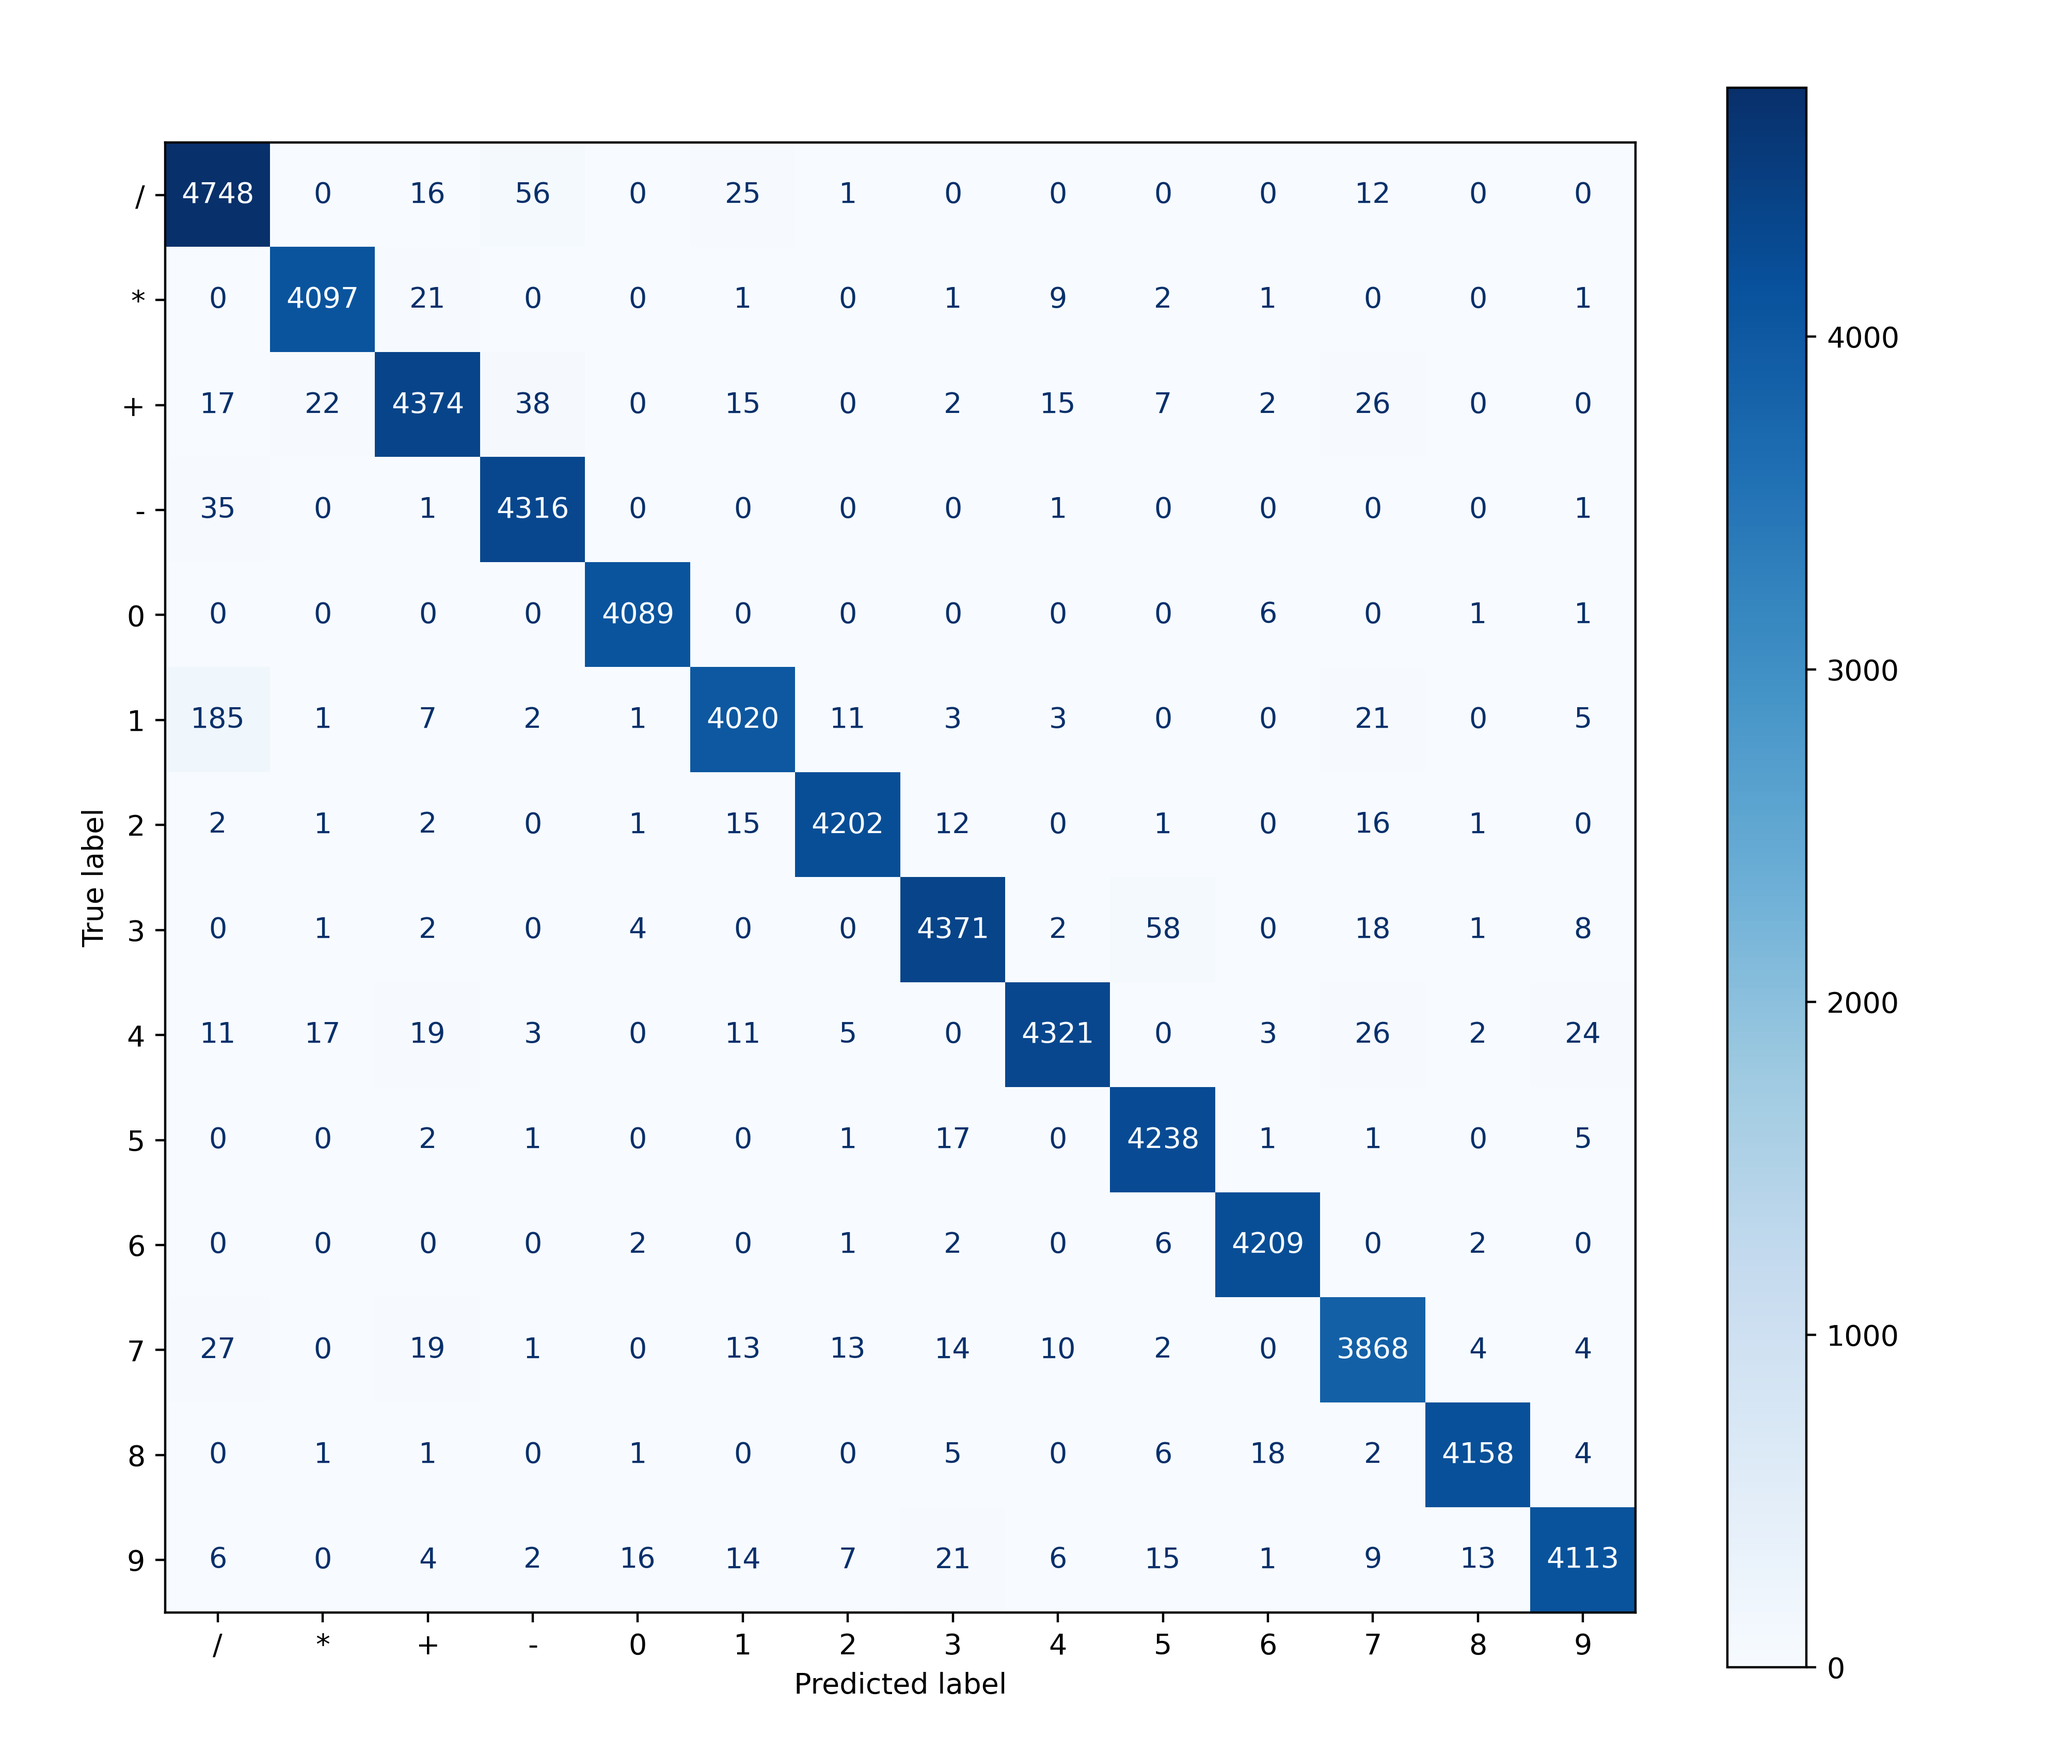
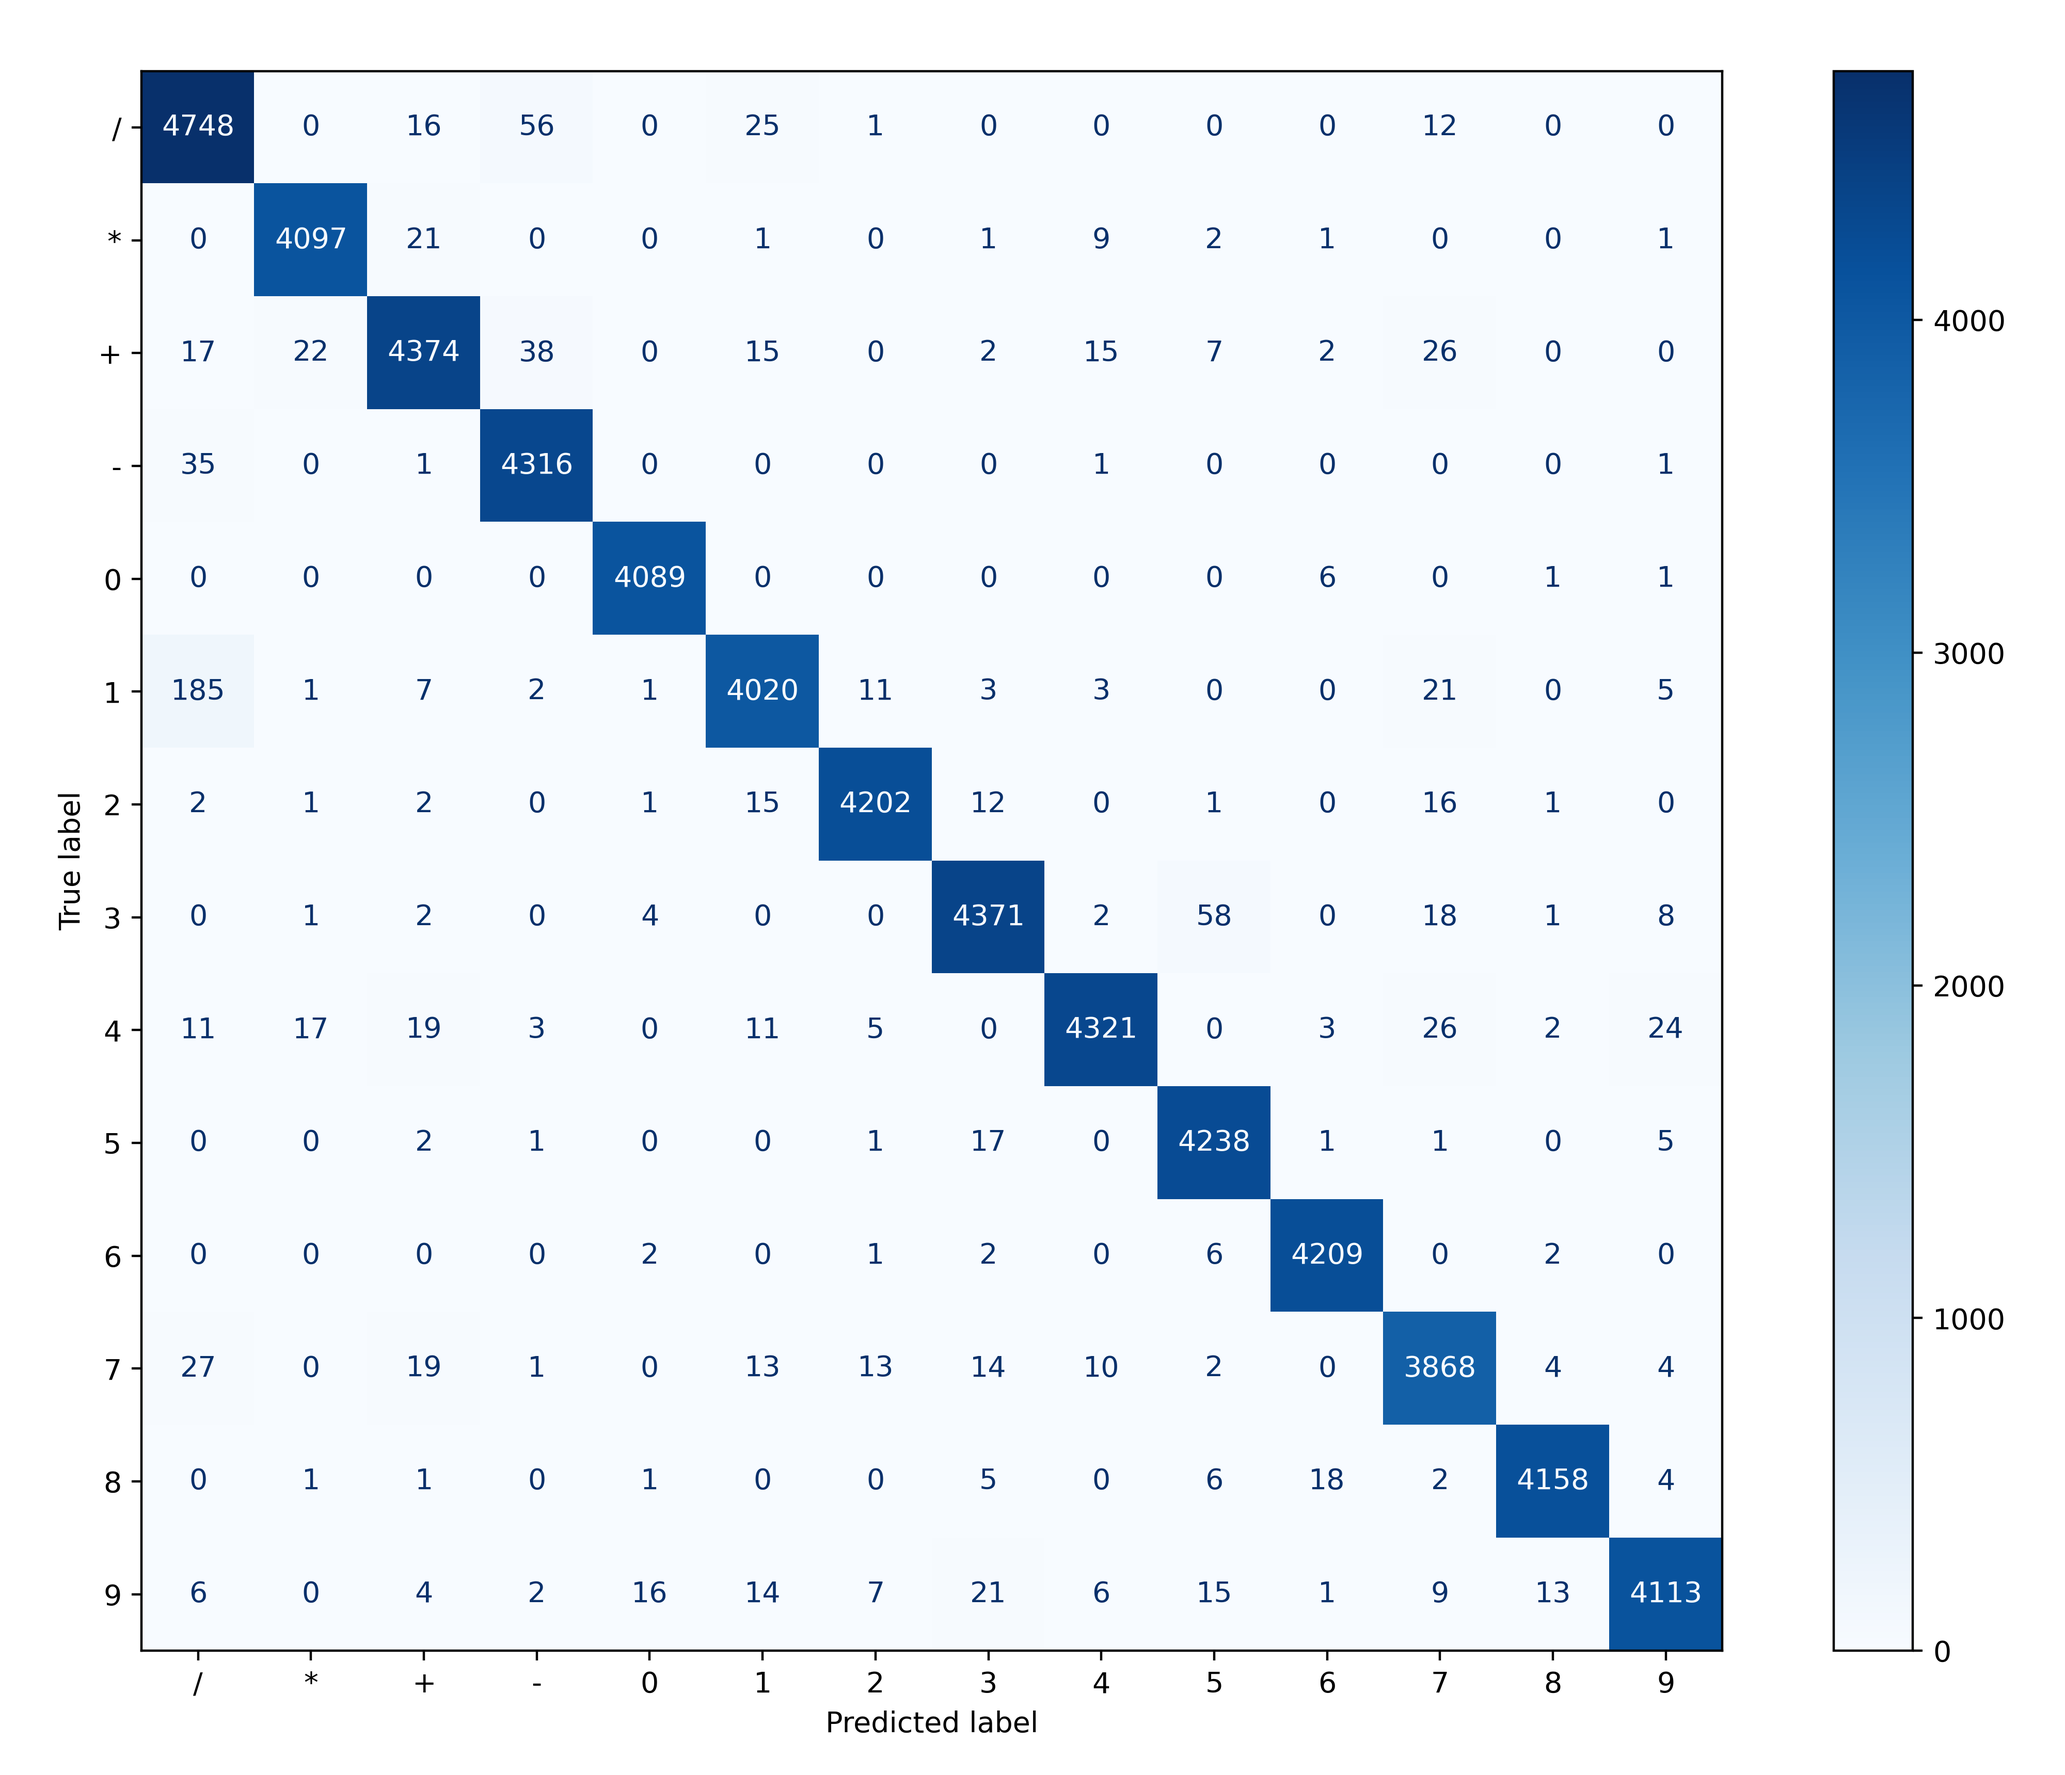
main-Updates of results

diff --git a/networks/custom_CNN.py b/networks/custom_CNN.py
@@ -20,7 +20,6 @@ from const_config import NUMBER_OF_FILES_TRAINING
 from const_config import BATCH_SIZE_VALIDATION
 from const_config import BATCHES_PER_FILE_VALIDATION
 from const_config import NUMBER_OF_FILES_VALIDATION
-from const_config import MODELS_PATH
 from const_config import CUSTOM_CNN_FILENAME
 from const_config import LABELS_PER_IMAGE
 from const_config import OUTPUTS_PER_LABEL
@@ -33,6 +32,7 @@ from const_config import NOT_AUGMENTED_MODELS_PATH
 from const_config import AUGMENTED_EQUATIONS_PATH
 from const_config import EQUATIONS_PATH
 from const_config import SEED
+from const_config import RESULTS_PATH
 
 class CustomCNN(nn.Module):
     def __init__(self, augmentation):
@@ -157,7 +157,23 @@ if __name__ == "__main__":
                 distances[lv.distance(labeled, classified, score_cutoff=7)] += 1
         
         print(f"distances: {distances}")
-        plt.hist([i for i in range(9)], [i for i in range(10)], weights=distances)
+
+        bins = [i * 10 for i in range(10)]
+        annotations_x = [i * 10 + 5 for i in range(10)]
+
+        figure, axis = plt.subplots(1, 1)
+        axis.set_xticks(annotations_x[:-1], distances)
+        axis.set_yticks([], [])
+        axis.set_frame_on(False)
+        *_, patches = axis.hist(bins[:-1], bins, weights=distances)
+        patches[0].set_facecolor("green")
+        patches[1].set_facecolor("mediumseagreen")
+        patches[2].set_facecolor("orange")
+        for patch in patches[3:]:
+            patch.set_facecolor("red")
+        for count, x_pos in zip(distances, annotations_x):
+            axis.annotate(str(count), (x_pos, count), ha="center", va="bottom", fontweight="bold")
+        plt.savefig(f"{RESULTS_PATH}custom_CNN_evaluation")
         plt.show()
             
     else:

diff --git a/networks/custom_recursive_CNN.py b/networks/custom_recursive_CNN.py
@@ -39,6 +39,7 @@ from const_config import NOT_AUGMENTED_MODELS_PATH
 from const_config import AUGMENTED_EQUATIONS_PATH
 from const_config import EQUATIONS_PATH
 from const_config import SEED
+from const_config import RESULTS_PATH
 
 class CustomRecursiveCNN(nn.Module):
     def __init__(self, device, augmentation, batch_size=0):
@@ -178,7 +179,23 @@ if __name__ == "__main__":
                 distances[lv.distance(labeled, classified, score_cutoff=7)] += 1
         
         print(f"distances: {distances}")
-        plt.hist([i for i in range(9)], [i for i in range(10)], weights=distances)
+
+        bins = [i * 10 for i in range(10)]
+        annotations_x = [i * 10 + 5 for i in range(10)]
+
+        figure, axis = plt.subplots(1, 1)
+        axis.set_xticks(annotations_x[:-1], distances)
+        axis.set_yticks([], [])
+        axis.set_frame_on(False)
+        *_, patches = axis.hist(bins[:-1], bins, weights=distances)
+        patches[0].set_facecolor("green")
+        patches[1].set_facecolor("mediumseagreen")
+        patches[2].set_facecolor("orange")
+        for patch in patches[3:]:
+            patch.set_facecolor("red")
+        for count, x_pos in zip(distances, annotations_x):
+            axis.annotate(str(count), (x_pos, count), ha="center", va="bottom", fontweight="bold")
+        plt.savefig(f"{RESULTS_PATH}custom_recursive_CNN_evaluation")
         plt.show()
             
     else:

diff --git a/networks/mser/classifier.py b/networks/mser/classifier.py
@@ -177,11 +177,11 @@ if __name__ == "__main__":
 
         # plot confusion matrix
         figure, axis = plt.subplots(1, 1)
-        figure.set_size_inches(10, 8.5)
-        plt.subplots_adjust(left=0.08, bottom=0.05, right=0.97, top=0.95, hspace=0.1, wspace=0.02)
+        figure.set_size_inches(10, 8.6)
+        plt.subplots_adjust(left=-0.03, bottom=0.07, right=1.05, top=0.96, hspace=0.1, wspace=0.02)
         confusion_matrix = tf.math.confusion_matrix(test_classes, highest_probability).numpy()
         cm_display = metrics.ConfusionMatrixDisplay(confusion_matrix=confusion_matrix, display_labels=labels)
         cm_display.plot(cmap="Blues", ax=axis)
         plt.savefig(f"{RESULTS_PATH}classifier_confusion_matrix", dpi=400)
-        plt.close()
         plt.show()
+        plt.close()
